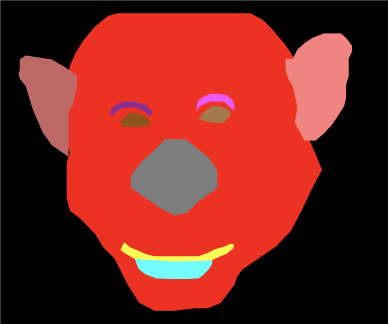
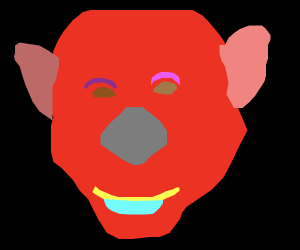
fixed images with white outlines

diff --git a/script.js b/script.js
@@ -53,7 +53,13 @@ animalSets.push(hummingbirds);
 
 update_pics();
 
-function random_size(orientation) {
+//COME UP WITH SOMETHING MORE: ANCHOR POINT LIKE TEXT-- name the animals or something
+//FIX WHITE EDGES
+
+function random_size(orientation) { //UPADATE BASED ON WINDOW SIZE SO IT DOESNT GO OVER
+    var window_width = window.innerWidth;
+    var window_height = window.innerHeight;
+    
     var orig_img = document.getElementById("original");
     var parsed_img = document.getElementById("parsed");
     var res_img = document.getElementById("result");
